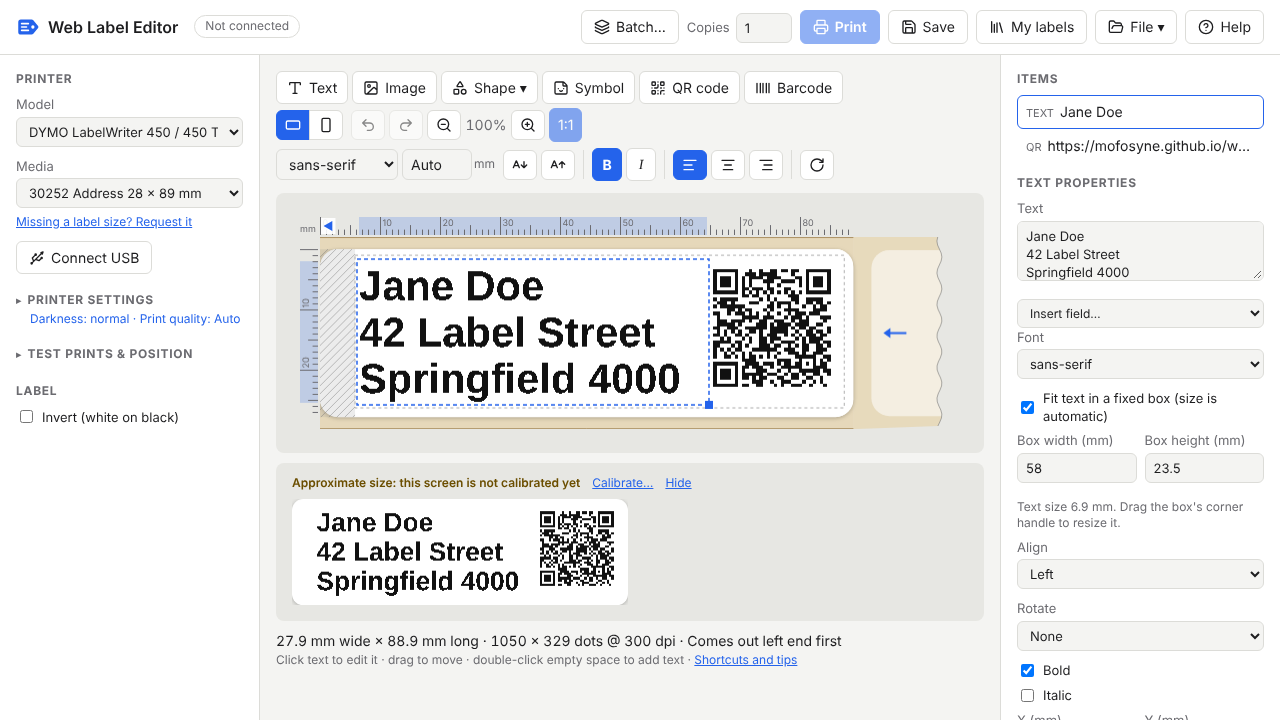
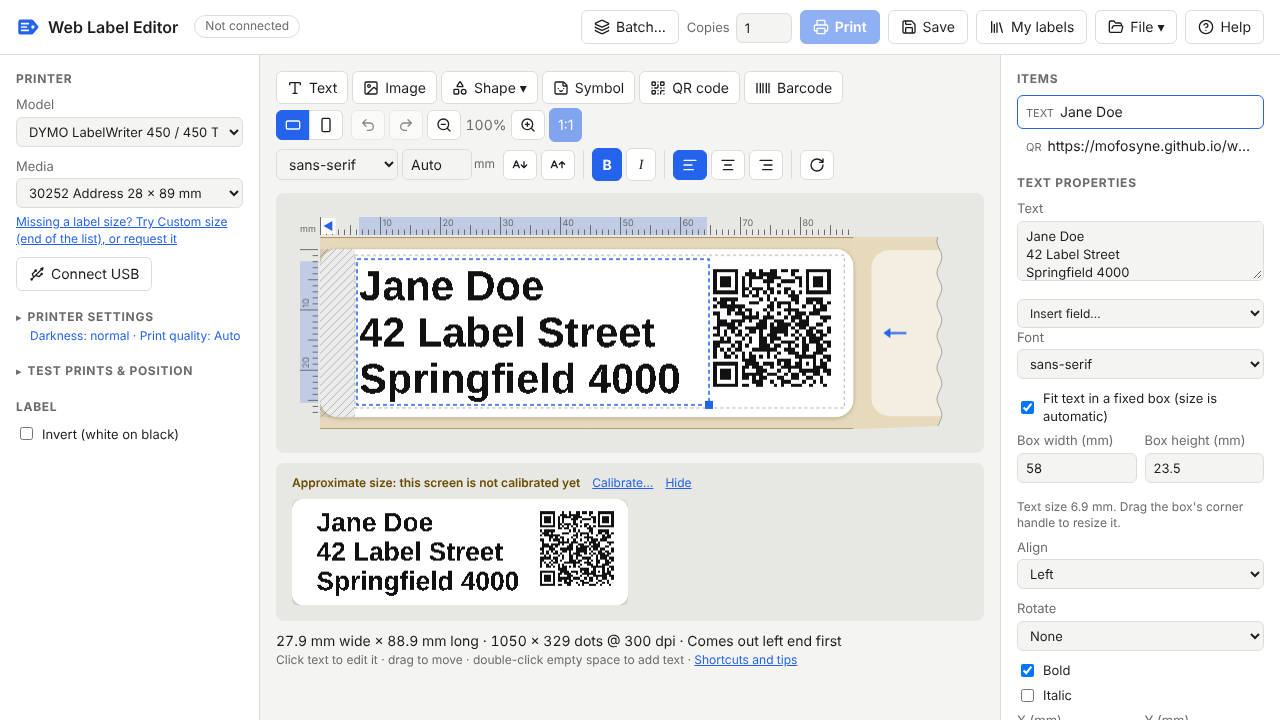
Custom size on Brother QL, Brother's round labels, and an easier-to-find Custom size
- Brother QL gets Custom size… too (experimental): any die-cut or
  continuous size, rectangular or round, built as a QL catalogue record.
  The QL is sent the size, so it must be the roll's own; its printable
  dots are estimated as Brother's usually are (3 mm less across, 6 mm
  along a die-cut label) and its offset and feed margin are those of the
  nearest Brother size, to fine-tune with the Grid test.
- Brother's round DK labels, 12, 24 and 58 mm (DK-11219, DK-11218,
  DK-11207), from brother_ql's labels.py, with Shape: round.
- Custom size reads 'Custom size… (any size, round too)', and 'Missing a
  label size?' points to it before the request form.
- Changing to a round label fits the design inside the safe circle, not
  the safe rectangle, so it isn't left in a corner off the label.

Claude-Session: https://claude.ai/code/session_01YQFkThD3TEfZZoGyfdA6sY

Changed region(s): [[0.0, 0.3056, 0.1875, 0.6111]]

diff --git a/src/app.js b/src/app.js
@@ -79,7 +79,15 @@ function customMediaSettings() {
 }
 function customMediaFor(id) {
   const m = MODELS[id];
-  return { ...CUSTOM_MEDIA[m.family], ...customMediaSettings()[id] };
+  const c = { ...CUSTOM_MEDIA[m.family], ...customMediaSettings()[id] };
+  if (m.family === 'brother-ql') {
+    // A QL's offset across the head and feed margin: those of the nearest
+    // Brother size of the same kind.
+    const near = m.media.filter((x) => x.id !== 'custom' && x.continuous === (c.kind === 'continuous'))
+      .sort((a, b) => Math.abs(a.widthMm - c.widthMm) - Math.abs(b.widthMm - c.widthMm))[0];
+    if (near) Object.assign(c, { offsetRightDots: near.offsetRightDots ?? 0, feedMarginDots: near.feedMarginDots ?? 0 });
+  }
+  return c;
 }
 // Puts (or refreshes) the printer's custom size at the end of its media.
 function applyCustomMedium(id) {
@@ -1116,7 +1124,7 @@ function buildSetup() {
   types.append(...m.media.filter((md) => md.id !== 'custom' || m.custom)
     .map((md) => new Option(md.name, md.id, false, !roll && md.id === medium().id)));
   const custom = !m.custom && m.media.find((md) => md.id === 'custom');
-  if (custom) types.append(new Option('Custom size…', 'custom', false, !roll && medium().id === 'custom'));
+  if (custom) types.append(new Option('Custom size… (any size, round too)', 'custom', false, !roll && medium().id === 'custom'));
   mediumSel.replaceChildren(types);
   const mine = rolls.filter((r) => r.printer === design.printer && m.media.some((md) => md.id === r.medium));
   if (mine.length) {
@@ -1300,7 +1308,7 @@ function keepFitting(change) {
     x: Math.min(...boxes.map((b) => b.x)), y: Math.min(...boxes.map((b) => b.y)),
     r: Math.max(...boxes.map((b) => b.x + b.w)), b: Math.max(...boxes.map((b) => b.y + b.h)),
   };
-  const mg = itemMargins();
+  const mg = boxMargins();
   const page = pageSize();
   const room = {
     x: mg.left, y: mg.top,
@@ -1518,8 +1526,10 @@ function buildCustomMedia() {
   h.textContent = 'Custom size';
   const intro = document.createElement('p');
   intro.className = 'note';
-  intro.textContent = 'For labels not in the list, such as third-party ones: enter the size from the packaging or '
-    + 'measure one, print the Grid test, then request it so it joins the list for everyone.';
+  intro.textContent = 'For labels not in the list, such as third-party ones and round stickers: enter the size from '
+    + 'the packaging or measure one, print the Grid test, then request it so it joins the list for everyone.'
+    + (m.family === 'brother-ql' ? ' Experimental on the QL: it is sent the size, so enter the roll\'s own; where it '
+      + 'can print is an estimate to fine-tune with the Grid test (Test prints & position).' : '');
   const dieCut = c.kind === 'diecut';
   box.replaceChildren(h, intro,
     field('Name or part number (optional)', input('name', { type: 'text', placeholder: 'e.g. 30334, or the brand' })),
@@ -1530,7 +1540,7 @@ function buildCustomMedia() {
       field('Shape', select('shape', [['rect', 'Rectangle'], ['round', 'Round (circle or oval)']])),
       ...(c.shape === 'round' ? [] : [field('Corner radius (mm)', input('cornerMm', { type: 'number', step: 0.5, min: 0 }))]),
     ] : []),
-    field('Safe margin (mm)', input('marginMm', { type: 'number', step: 0.5, min: 0 }), 'Kept clear inside the edges.'),
+    ...(m.family === 'brother-ql' ? [] : [field('Safe margin (mm)', input('marginMm', { type: 'number', step: 0.5, min: 0 }), 'Kept clear inside the edges.')]),
     reportBlock({
       title: 'Generate report',
       note: 'The size as a record for the label list, to copy or save; the GitHub button opens a label request with '
@@ -1690,6 +1700,9 @@ function updateReportLinks() {
     ? 'Something not right with this printer? Report it'
     : 'Experimental printer: tried it? Report how it went';
   $('request-label').href = labelRequestUrl({ printer: model().name });
+  $('request-label').textContent = CUSTOM_MEDIA[model().family]
+    ? 'Missing a label size? Try Custom size (end of the list), or request it'
+    : 'Missing a label size? Request it';
 }
 
 function setStatus(text, ok = false) {
@@ -2303,17 +2316,26 @@ function nextX() {
 // keeps a set size. Returns the free rectangles (mm, label coordinates),
 // largest first: the whole safe area on an empty label, else the strips
 // beside, below, above and before what is there.
+// The safe area as insets from the label's edges; on a round label, the
+// largest box inside its safe circle (and clear of a wider margin on one
+// side, such as the LabelWriter's leading margin).
+function boxMargins(lane = currentLane()) {
+  const mg = itemMargins(lane);
+  if (medium().shape !== 'round') return mg;
+  const page = pageSize();
+  const even = evenMargins(mg);
+  const dx = ((page.w - even.left - even.right) * (1 - Math.SQRT1_2)) / 2;
+  const dy = ((page.h - even.top - even.bottom) * (1 - Math.SQRT1_2)) / 2;
+  return {
+    left: Math.max(mg.left, even.left + dx), right: Math.max(mg.right, even.right + dx),
+    top: Math.max(mg.top, even.top + dy), bottom: Math.max(mg.bottom, even.bottom + dy),
+  };
+}
+
 function freeAreas(lane = currentLane()) {
   if (!medium().lengthDots || !last) return [];
   const page = pageSize();
-  let mg = itemMargins(lane);
-  if (medium().shape === 'round') {
-    // The largest box inside the safe circle.
-    const even = evenMargins(mg);
-    const dx = ((page.w - even.left - even.right) * (1 - Math.SQRT1_2)) / 2;
-    const dy = ((page.h - even.top - even.bottom) * (1 - Math.SQRT1_2)) / 2;
-    mg = { left: Math.max(mg.left, even.left + dx), right: even.right + dx, top: even.top + dy, bottom: even.bottom + dy };
-  }
+  const mg = boxMargins(lane);
   const S = { x0: mg.left, y0: mg.top, x1: page.w - mg.right, y1: page.h - mg.bottom };
   const slot = last.slots.find((sl) => sl.lane === lane);
   if (!slot) return [];

diff --git a/src/catalog.js b/src/catalog.js
@@ -166,9 +166,12 @@ export async function loadPrinters(models, url = PRINTERS_URL) {
   return applyPrinters(await res.text(), models);
 }
 
-// "Custom size…": a label size the user enters, on printers that print any
-// size they are given (the LabelWriter feeds to the gap; a Brother QL checks
-// the loaded roll against the size sent, P-touch tape comes in set widths).
+// "Custom size…": a label size the user enters, to try a third-party roll
+// (P-touch tape comes in set widths, so not there). The LabelWriter feeds to
+// the gap whatever the size; a Brother QL is sent the size, so it has to
+// match the roll, and its printable area and offset are estimates (3 mm less
+// than the label, the offset of the nearest Brother size) to fine-tune with
+// the Grid test.
 // It is built as a catalogue record, so the preview and the record in a
 // label request are the same thing.
 export const CUSTOM_MEDIA = {
@@ -176,6 +179,11 @@ export const CUSTOM_MEDIA = {
     name: '', kind: 'diecut', widthMm: 25, lengthMm: 54, cornerMm: 2, shape: 'rect', marginMm: 1.5,
     // The LabelWriter starts printing this far into each label (see models.js).
     leadingMm: 5.84,
+  },
+  'brother-ql': {
+    name: '', kind: 'diecut', widthMm: 29, lengthMm: 42, cornerMm: 2, shape: 'rect',
+    // From the nearest catalogue size (set by the app).
+    offsetRightDots: 6, feedMarginDots: 0,
   },
 };
 
@@ -193,6 +201,19 @@ export function customRecord(family, cfg, { source = '(link to this issue)' } = 
     `WidthMm: ${fmt(c.widthMm)}`,
   ];
   if (c.kind === 'diecut') lines.push(`LengthMm: ${fmt(c.lengthMm)}`);
+  if (family === 'brother-ql') {
+    // Brother's printable dots: about 36 (3 mm at 300 dpi) less than the
+    // label across, 70 along a die-cut label (brother_ql's sizes).
+    const dots = (v) => Math.round((Number(v) * 300) / 25.4);
+    lines.push(`PrintableDots: ${Math.max(8, dots(c.widthMm) - 36)}`);
+    if (c.kind === 'diecut') lines.push(`PrintableLengthDots: ${Math.max(8, dots(c.lengthMm) - 70)}`);
+    lines.push(`OffsetRightDots: ${c.offsetRightDots ?? 0}`);
+    if (c.kind === 'continuous' || c.feedMarginDots) lines.push(`FeedMarginDots: ${c.kind === 'continuous' ? 35 : c.feedMarginDots}`);
+    if (c.kind === 'diecut' && Number(c.cornerMm) && c.shape !== 'round') lines.push(`CornerMm: ${fmt(c.cornerMm)}`);
+    if (c.kind === 'diecut' && c.shape === 'round') lines.push('Shape: round');
+    lines.push(`Source: ${source}`);
+    return lines.join('\n');
+  }
   lines.push(
     `MarginLeftMm: ${fmt(Math.max(c.leadingMm ?? 0, c.marginMm))}`,
     `MarginRightMm: ${fmt(c.marginMm)}`,

diff --git a/test/catalog.test.js b/test/catalog.test.js
@@ -137,3 +137,18 @@ test('custom size: a record that builds the medium the preview uses, round or re
     execFileSync('recfix', [file]);
   }
 });
+
+test('Brother QL: round DK labels, and a custom size built as a QL record', async () => {
+  const { customRecord, mediumFromRecord } = await import('../src/catalog.js');
+  const models = applyCatalog(catalogText, freshModels());
+  const ql = models['brother-ql-570'];
+  const d24 = ql.media.find((m) => m.id === 'ql-d24');
+  assert.deepEqual([d24.shape, d24.band.h, d24.band.w, d24.offsetRightDots], ['round', 236, 236, 42]);
+  const rec = customRecord('brother-ql', { kind: 'diecut', widthMm: 40, lengthMm: 40, shape: 'round', offsetRightDots: 12 });
+  assert.match(rec, /\nPrintableDots: 436\nPrintableLengthDots: 402\nOffsetRightDots: 12\nShape: round\n/);
+  const m = mediumFromRecord(rec, ql);
+  assert.deepEqual([m.shape, m.band.h, m.lengthDots, m.offsetRightDots], ['round', 436, 472, 12]);
+  const roll = mediumFromRecord(customRecord('brother-ql', { kind: 'continuous', widthMm: 50, offsetRightDots: 12 }), ql);
+  assert.deepEqual([roll.continuous, roll.feedMarginDots], [true, 35]);
+  assert.ok(Math.abs(roll.band.h - 554) <= 1, 'a 50 mm roll within a dot of brother_ql\'s "50" (554)');
+});

diff --git a/src/about.js b/src/about.js
@@ -131,8 +131,8 @@ function tips() {
         + 'which way the label moves out.'),
       li(b('Ruler marks'), ': the arrow is the end that comes out of the printer first, ✂ where it is cut, » where a '
         + 'continuous label grows.'),
-      li(b('Custom size…'), ' (LabelWriter, last in Media): any label size, die-cut or continuous, rectangular or '
-        + 'round. Generate report turns it into a request to add it to the list.'),
+      li(b('Custom size…'), ' (LabelWriter and Brother QL, last in Media): any label size, die-cut or continuous, '
+        + 'rectangular or round, for third-party rolls. Generate report turns it into a request to add it to the list.'),
       li(b('Print quality'), ' (DYMO LabelWriter, most Brother QL): High prints 300 × 600 dpi, twice as fine along '
         + 'the label, so barcode bars come out at the width asked for and text is smoother; Auto does this only for '
         + 'barcodes. QR codes don\'t gain from it.'),

diff --git a/docs/MAINTAINING.md b/docs/MAINTAINING.md
@@ -91,7 +91,7 @@ numbered line should be that many mm from its edge.
 ## 4. A label or tape size
 
 Label requests come in labelled `label request`. Those made from the
-app's **Custom size…** (LabelWriter) have a **Catalogue record** box with a
+app's **Custom size…** (LabelWriter or Brother QL) have a **Catalogue record** box with a
 record ready to paste, built the same way the app built the preview:
 
 1. Check the reporter says the Grid test lined up with those margins, and
@@ -102,6 +102,11 @@ record ready to paste, built the same way the app built the preview:
    or `brand-size`), a `Name` people will recognise, and the issue as
    `Source`. `Id`s are saved in designs: never rename or reuse one.
 3. Run `recfix catalog/media.rec` and the [checks](#checks-before-merging).
+
+A Brother QL record from Custom size… has estimated `PrintableDots`,
+`PrintableLengthDots` and `OffsetRightDots`: keep them only if the
+reporter's Grid test lined up, or use Brother's values where the size is one
+of theirs (brother_ql's `labels.py`).
 
 Otherwise, add the record by hand; the comment at the top of `media.rec`
 explains each field, and the README section "Adding a label or tape size"

diff --git a/README.md b/README.md
@@ -470,12 +470,16 @@ take a few seconds to send.
 
 ## Adding a label or tape size
 
-**Try it first with "Custom size…".** On a LabelWriter, the last entry in
-*Media* takes any size: die-cut or continuous, width and length, corner
+**Try it first with "Custom size…".** On a LabelWriter or a Brother QL, the
+last entry in *Media* takes any size (third-party rolls, round stickers): die-cut or continuous, width and length, corner
 radius or round, and a safe margin. Print the Grid test, then *Generate
 report* opens a label request with a ready record for the catalogue (or copy
 it, or save it as a file). Round labels show as a circle, with the safe area
-a circle inset from the edge.
+a circle inset from the edge. On a Brother QL it is experimental: the
+printer is sent the size, so enter the roll's own, and where it can print is
+an estimate (3 mm less than the label, the offset of the nearest Brother
+size) to fine-tune with the Grid test. Brother's round DK labels (12, 24 and
+58 mm) are in the list.
 
 Label and tape sizes live in [`catalog/media.rec`](catalog/media.rec), a
 [GNU recutils](https://www.gnu.org/software/recutils/) file: one record per
